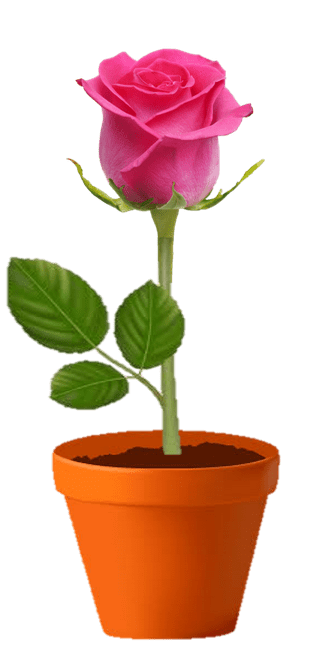
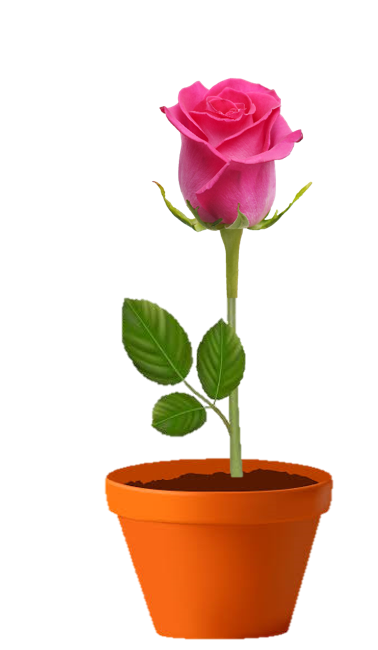
Add sun (#39)
* Adding sun and updating flower images

* Adding sun images with config option

* Removing debug code

* Updating readme and changelog

* Updating tsc

* Fixing changelog version

* 2.13.0

diff --git a/MMM-DynamicWeather.js b/MMM-DynamicWeather.js
@@ -73,6 +73,7 @@ Module.register("MMM-DynamicWeather", {
         effectDuration: 120000,
         effectDelay: 60000,
         realisticClouds: false,
+        hideSun: false,
         hideSnow: false,
         hideSnowman: true,
         hideRain: false,
@@ -83,6 +84,7 @@ Module.register("MMM-DynamicWeather", {
         lightning1Count: 2,
         lightning2Count: 3,
         sequential: "",
+        sunImage: "sun_right",
         effects: [],
     },
     start: function () {
@@ -245,6 +247,10 @@ Module.register("MMM-DynamicWeather", {
                         }
                         break;
                     }
+                    case "sun": {
+                        this.makeItSunny(wrapper);
+                        break;
+                    }
                     case "rain": {
                         this.makeItRain(wrapper);
                         if (this.config.hideFlower === false || this.config.hideFlower === "false") {
@@ -378,6 +384,9 @@ Module.register("MMM-DynamicWeather", {
                 }
                 else if (this.weatherCode >= 701 && this.weatherCode <= 781 && !this.config.hideFog) {
                     this.makeItFoggy(wrapper);
+                }
+                else if (this.weatherCode == 800 && !this.config.hideSun) {
+                    this.makeItSunny(wrapper);
                 }
             }
             console.info("[MMM-DynamicWeather] Displaying effects for: ", this.config.effectDuration);
@@ -515,6 +524,16 @@ Module.register("MMM-DynamicWeather", {
         lightningPlayer.appendChild(lightningImage1);
         lightningPlayer.appendChild(lightningImage2);
         wrapper.appendChild(lightningPlayer);
+    },
+    makeItSunny: function (wrapper) {
+        this.doShowEffects = false;
+        var sunImage = document.createElement("div");
+        sunImage.classList.add("sun");
+        sunImage.style.background = "url('./modules/MMM-DynamicWeather/images/" + this.config.sunImage + ".png')  center center/cover no-repeat transparent";
+        var sunPlayer = document.createElement("div");
+        sunPlayer.classList.add("sunPlayer");
+        sunPlayer.appendChild(sunImage);
+        wrapper.appendChild(sunPlayer);
     },
     makeItCloudy: function (wrapper) {
         this.doShowEffects = false;
@@ -681,6 +700,9 @@ Module.register("MMM-DynamicWeather", {
                         doUpdate_1 = true;
                     }
                     if (newCode_1 >= 701 && newCode_1 <= 781 && !this.config.hideFog) {
+                        doUpdate_1 = true;
+                    }
+                    if (newCode_1 == 800 && !this.config.hideSun) {
                         doUpdate_1 = true;
                     }
                     this.allEffects.forEach(function (effect) {

diff --git a/MMM-DynamicWeather.ts b/MMM-DynamicWeather.ts
@@ -96,6 +96,7 @@ Module.register("MMM-DynamicWeather", {
     effectDuration: 120000,
     effectDelay: 60000,
     realisticClouds: false,
+    hideSun: false,
     hideSnow: false,
     hideSnowman: true,
     hideRain: false,
@@ -106,6 +107,7 @@ Module.register("MMM-DynamicWeather", {
     lightning1Count: 2,
     lightning2Count: 3,
     sequential: "",
+    sunImage: "sun_right",
     effects: [] as Effect[],
   },
 
@@ -272,6 +274,10 @@ Module.register("MMM-DynamicWeather", {
             }
             break;
           }
+          case "sun": {
+            this.makeItSunny(wrapper);
+            break;
+          }
           case "rain": {
             this.makeItRain(wrapper);
             if (this.config.hideFlower === false || this.config.hideFlower === "false") {
@@ -398,6 +404,8 @@ Module.register("MMM-DynamicWeather", {
           }
         } else if (this.weatherCode >= 701 && this.weatherCode <= 781 && !this.config.hideFog) {
           this.makeItFoggy(wrapper);
+        }else if (this.weatherCode == 800 && !this.config.hideSun) {
+          this.makeItSunny(wrapper);
         }
       }
 
@@ -566,6 +574,20 @@ Module.register("MMM-DynamicWeather", {
     lightningPlayer.appendChild(lightningImage2);
 
     wrapper.appendChild(lightningPlayer);
+  },
+
+  makeItSunny: function (wrapper) {
+    this.doShowEffects = false;
+
+    var sunImage = document.createElement("div");
+    sunImage.classList.add("sun");
+    sunImage.style.background = "url('./modules/MMM-DynamicWeather/images/" + this.config.sunImage + ".png')  center center/cover no-repeat transparent";
+
+    let sunPlayer = document.createElement("div");
+    sunPlayer.classList.add("sunPlayer");
+    sunPlayer.appendChild(sunImage);
+
+    wrapper.appendChild(sunPlayer);
   },
 
   makeItCloudy: function (wrapper) {
@@ -740,6 +762,7 @@ Module.register("MMM-DynamicWeather", {
           return;
         }
         let newCode = payload.result.weather[0].id;
+        
         let doUpdate = false;
 
         //check to see if the newCode is different than already displayed, and if so, is it going to show anything
@@ -757,6 +780,9 @@ Module.register("MMM-DynamicWeather", {
             doUpdate = true;
           }
           if (newCode >= 701 && newCode <= 781 && !this.config.hideFog) {
+            doUpdate = true;
+          }
+          if (newCode == 800 && !this.config.hideSun) {
             doUpdate = true;
           }
           (this.allEffects as Effect[]).forEach((effect) => {

diff --git a/MMM-DynamicWeather.css b/MMM-DynamicWeather.css
@@ -432,6 +432,24 @@ Lightning
   }
 }
 
+
+/***************************
+Sunny
+***************************/
+.MMM-DynamicWeather .sunnyPlayer {
+  height: 100%;
+  width: 100%;
+  position: absolute;
+  display: block;
+  opacity: .4;
+}
+.MMM-DynamicWeather .sun {
+  height: 100%;
+  width: 100%;
+  position: absolute;
+  opacity: .4;
+}
+
 /***************************
 Snowman
 ***************************/

diff --git a/README.md b/README.md
@@ -69,7 +69,7 @@ The following properties can be configured:
 
 |Option|Description|
 |---|---|
-|`alwaysDisplay`|Set this to always display the specified default effect, regardless of weather. Does not work for custom effects; to always display custom effects leave out weatherCode, month, day and year.<br><br>**Options:** `snow`, `rain`, `cloudy`,`fog`, `lightning`, `rain-lightning` <br>**Type:** `string`<br>**Default value:** `null`|
+|`alwaysDisplay`|Set this to always display the specified default effect, regardless of weather. Does not work for custom effects; to always display custom effects leave out weatherCode, month, day and year.<br><br>**Options:** `cloudy`, `fog`, `lightning`, `rain-lightning`, `rain`, `sun`, `snow` <br>**Type:** `string`<br>**Default value:** `null`|
 |`api_key`|**Required** This is the API key you need to use to request weather data from the OpenWeatherMap site.  Details on how to request an API key can be found [here](https://home.openweathermap.org/users/sign_up)<br><br>**Type:** `string`<br>**Default value:** `null`|
 |`effectDuration`|The length, in milliseconds, to display the effect. <br><br>**Type:** `number`<br>**Default value:** `120000`|
 |`effectDelay`|The length, in milliseconds, to wait to restart the effect. <br><br>**Type:** `number`<br>**Default value:** `60000`|
@@ -89,6 +89,7 @@ The following properties can be configured:
 |`particleCount`|The number of particles to show for each effect. Higher counts may cause performance issues. This can be overriden in each effect. <br><br>**Type:** `integer`<br>**Default value:** `100`|
 |`realisticClouds`|If true, shows more realistic cloud effect. Uses the cloud pictures with varying size and amount based on current weather cloud density.<br><br>**Type:** `boolean`<br>**Default value:** `false`|
 |`sequential`|If set, will not display weather and a custom effect at the same time. It will run for effectDuration, wait for effectDelay, and then show the next. Repeats until either the weather changes and/or the effect date/holiday is no longer today. If not set, both weather and effect can be seen together. <br><br>`weather` to see weather first <br> `effect` to see effect first <br> `effect-one` to see effect first but only 1 effect at a time, going in order of the array. <br><br><br>**Options:**`weather`,`effect`,`effect-one`<br>**Type:** `string`<br>**Default value:** `null`|
+|`sunImage`|Determines which image to display when sunny.<br><br>**Options:**`sun_center`,`sun_large`,`sun_left`,`sun_right`<br>**Type:** `string`<br>**Default value:** `sun_right`|
 |`weatherInterval`|How often the weather is updated.<br><br>**Type:** `integer`<br>**Default value:** `600000 // 10 minutes`|
 |`zIndex`|Sets the z-index of the module's wrapper, in case of other elements being blocked.<br><br>**Type:** `number`<br>**Default value:** `99`|
 

diff --git a/CHANGELOG.md b/CHANGELOG.md
@@ -4,6 +4,10 @@ All notable changes to this project will be documented in this file.
 The format is based on [Keep a Changelog](http://keepachangelog.com/) 
 and this project adheres to [Semantic Versioning](http://semver.org/).
 
+## [2.13] - 2021-03-22
+### Added
+- Added sunny effect with multiple images. (added to configuration)
+
 ## [2.12.2] - 2021-02-23
 ### Changed
 - Applied more logging info and try/catch for error handling.
